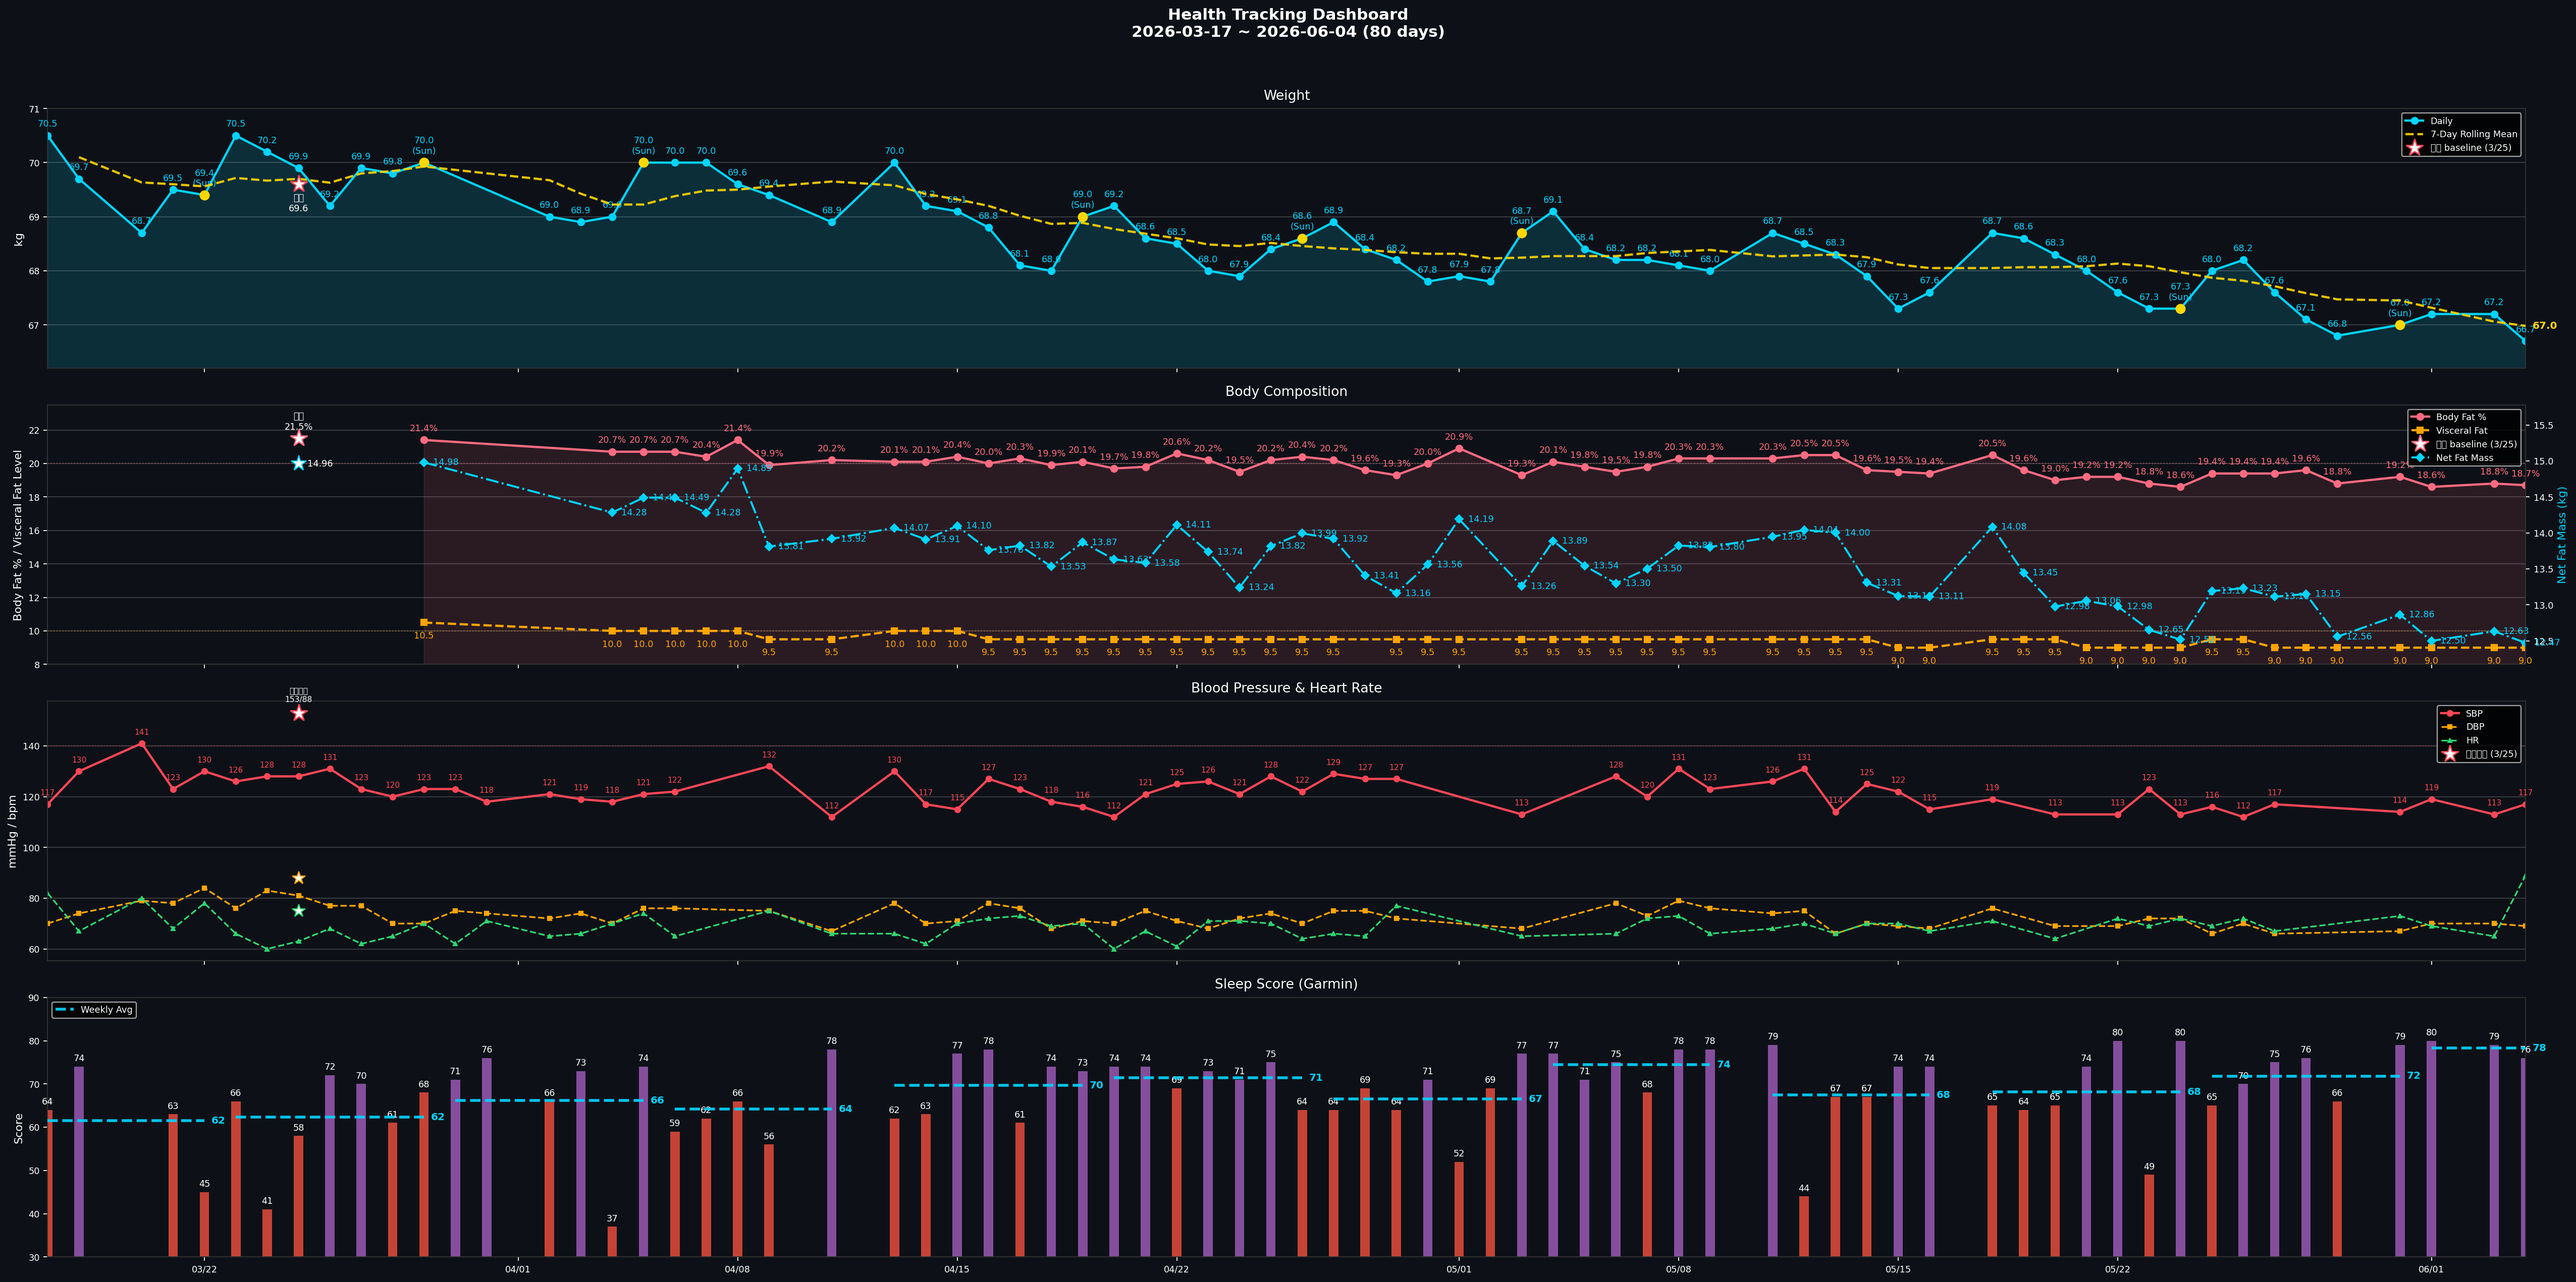
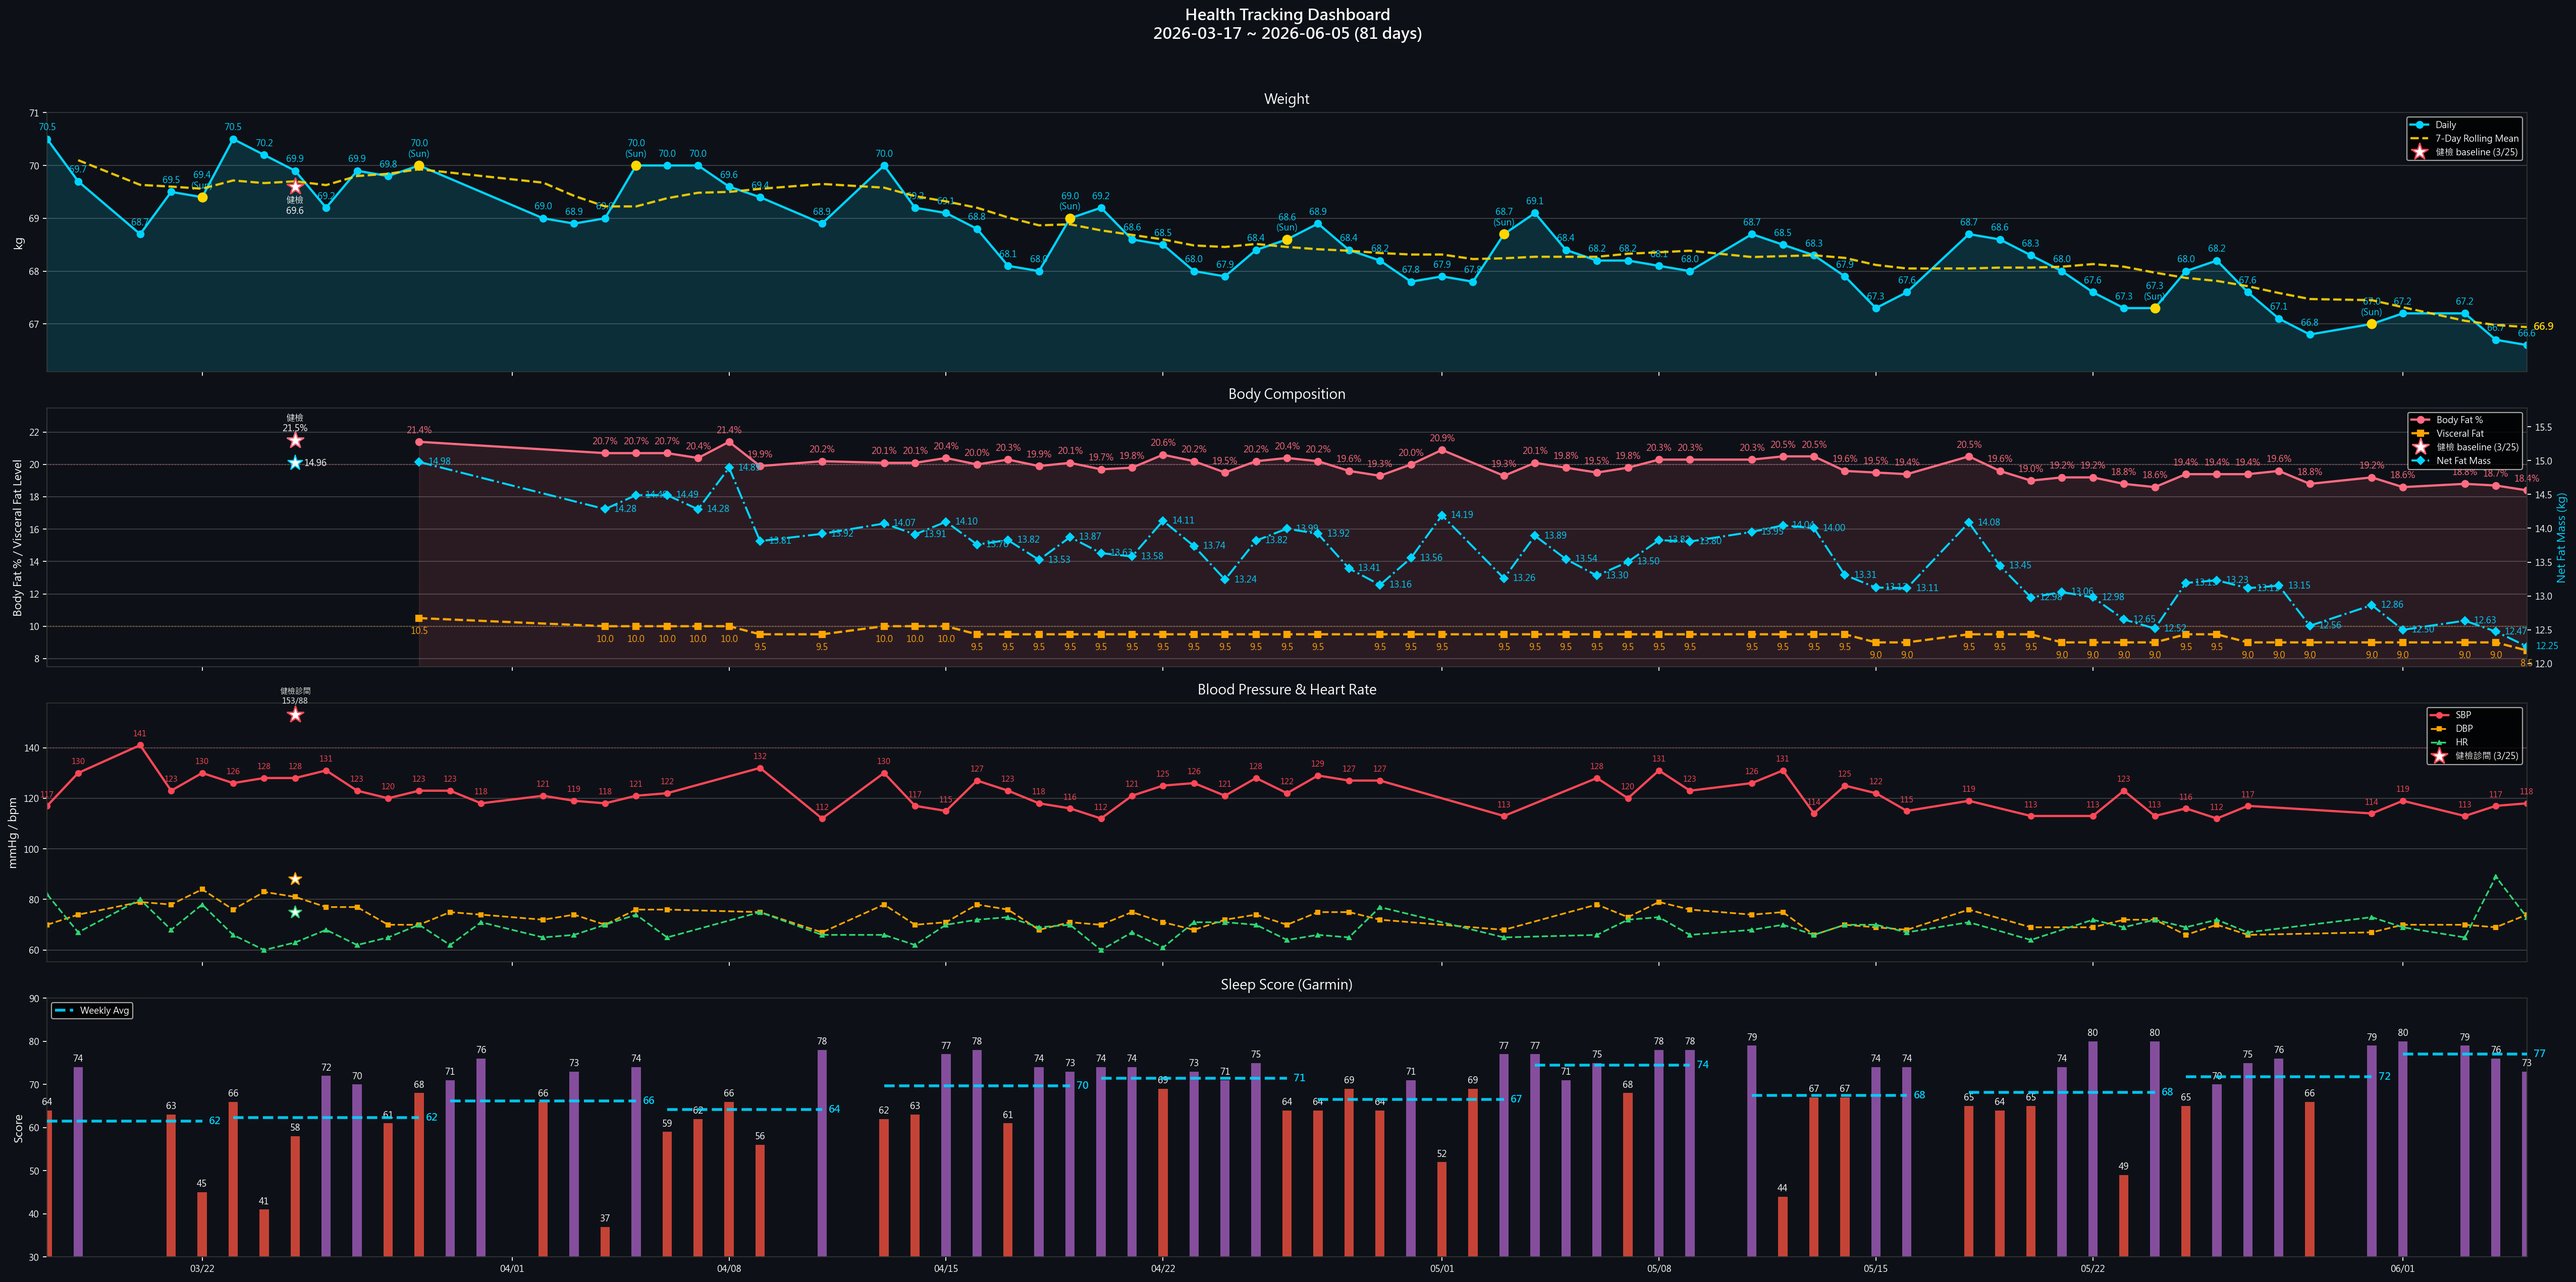
daily 2026-06-05：體重 66.6kg / BP 118/74 / Sleep 73 / SpO2 nadir 94%

diff --git a/data.js b/data.js
@@ -17,8 +17,8 @@ window.HC_DATA = {
     lede:    { en: "Sleep, BP, lipids, uric acid — one shared metabolic root. Lifestyle stacks first; medication only after lifestyle plateaus.",
                zh: "睡眠、血壓、血脂、尿酸——共享同一個代謝根源。生活方式介入優先，等到效果平台期再考慮藥物。" },
     progressLbl: { en: "Weight progress · 70 → 65 kg", zh: "體重進度 · 70 → 65 公斤" },
-    progressMeta: { en: "Day 80 · 67.3 kg · Sat official (5/23)", zh: "第 80 天 · 67.3 公斤 · 週六正式（5/23）" },
-    startDate: { en: "Start date · Mar 17, 2026 · Last sync 6/4", zh: "起始日期 · 2026 年 3 月 17 日 · 最後同步 6/4" },
+    progressMeta: { en: "Day 81 · 67.3 kg · Sat official (5/23)", zh: "第 81 天 · 67.3 公斤 · 週六正式（5/23）" },
+    startDate: { en: "Start date · Mar 17, 2026 · Last sync 6/5", zh: "起始日期 · 2026 年 3 月 17 日 · 最後同步 6/5" },
     startWeight: 70,
     targetWeight: 65,
     currentWeight: 67.3,
@@ -47,13 +47,13 @@ window.HC_DATA = {
     {
       sys: "heart", name: { en: "Blood Pressure", zh: "血壓" },
       val: "115/67", unit: "mmHg",
-      delta: { en: "W22 weekly avg (4 days) · target met (<130) · last 117/69 (6/4)", zh: "W22 週均（4 天）· 已達標 (<130) · 最新 117/69 (6/4)" },
+      delta: { en: "W22 weekly avg (4 days) · target met (<130) · last 118/74 (6/5)", zh: "W22 週均（4 天）· 已達標 (<130) · 最新 118/74 (6/5)" },
       cadence: { en: "Daily · weekly avg", zh: "每日 · 週均" },
       status: "ok",
     },
     {
       sys: "sleep", name: { en: "Sleep Score", zh: "睡眠分數" },
-      val: "76", unit: "Garmin",
+      val: "73", unit: "Garmin",
       delta: { en: "5/4 · OSA flag: T90 18.4% (severe)", zh: "5/4 · OSA 紅旗：T90 18.4%（重度）" },
       cadence: { en: "Daily · Garmin", zh: "每日 · Garmin" },
       status: "warn",
@@ -929,17 +929,17 @@ window.HC_DATA = {
   tracker: {
     // [SBP, DBP] — gaps filled with prior reading
     bp: [
-      [113,69], [113,69], [113,69], [123,72], [113,72], [116,66], [112,70], [117,66], [117,66], [117,66], [114,67], [119,70], [113,70], [117,69],
+      [113,69], [113,69], [123,72], [113,72], [116,66], [112,70], [117,66], [117,66], [117,66], [114,67], [119,70], [113,70], [117,69], [118,74],
     ],
     // daily weight (kg)
-    weight: [68.3, 68, 67.6, 67.3, 67.3, 68, 68.2, 67.6, 67.1, 66.8, 67, 67.2, 67.2, 66.7],
+    weight: [68, 67.6, 67.3, 67.3, 68, 68.2, 67.6, 67.1, 66.8, 67, 67.2, 67.2, 66.7, 66.6],
     // Garmin Sleep Score
-    sleep:  [65, 74, 80, 49, 80, 65, 70, 75, 76, 66, 79, 80, 79, 76],
+    sleep:  [74, 80, 49, 80, 65, 70, 75, 76, 66, 79, 80, 79, 76, 73],
     // Body Battery waking
-    bb:     [54, 61, 56, 34, 59, 55, 53, 64, 59, 55, 69, 71, 53, 41],
+    bb:     [61, 56, 34, 59, 55, 53, 64, 59, 55, 69, 71, 53, 41, 40],
     // SpO2 nightly nadir % (last 14 days, parallel to bp/weight/sleep/bb).
     // Earlier nights null until sync_data_js.py backfills; banner only uses trailing values.
-    spo2Nadir: [84, 83, 83, 84, null, null, 87, 93, 94, 91, 86, 89, 87, 92],
+    spo2Nadir: [83, 83, 84, null, null, 87, 93, 94, 91, 86, 89, 87, 92, 94],
   },
 
   // ===== Running — started 2026-04-26 =====

diff --git a/reviews/daily/2026-06-05.md b/reviews/daily/2026-06-05.md
@@ -1,0 +1,99 @@
+# 晨間健康紀錄 — 2026-06-05
+
+*3 分鐘。起床後立即完成。記錄，不分析。*
+
+---
+
+## 體重 / 體組成
+
+**今日：66.6 kg**
+**體脂率：18.4 %**
+**內臟脂肪等級：8.5**
+**腰圍 (WHO midpoint)： cm**（最下肋骨下緣 + 髂嵴頂端兩點水平中點環繞，通常在肚臍上方 2-5 cm；**與健檢歷史可比**；目標維持 ≤ 83、推進至 < 80 cm）
+**腰圍 (最大腹圍)： cm**（自然站立、吐氣末、不收腹，軟尺上下移動找最大讀數；通常在肚臍 0 至 -4 cm；**對內臟脂肪變化最敏感**）
+
+*每週六早晨為正式體重紀錄（排尿後、進食前；連 5 個工作日後、週末大餐前的真實低點）。其他日可選填。*
+*腰圍每日量（起床排尿後、進食前）。量兩個位置（WHO + max），方向應一致；若差距 > 3 cm 持續，考慮以 max 為主追蹤指標。*
+*WHO midpoint：科學標準，國健署 / 健檢 / metabolic syndrome 診斷用；最大腹圍：內臟脂肪 visceral fat correlation 最強。*
+
+---
+
+## 血壓（晨間）
+
+*起床後 1 小時內，上完廁所、進食前。坐下安靜 5 分鐘，連量兩次取第二次。*
+
+| 次數 | 收縮壓 | 舒張壓 | 心率 |
+|------|--------|--------|------|
+| 第一次 | | | |
+| 第二次 | 118 | 74 | 73 |
+
+---
+
+## 睡眠狀態
+
+**Garmin 偵測入睡：** 22:53
+**實際上床：**
+**實際起床：** 04:48
+**中途醒來：** 無
+**Garmin Sleep Score：** 73 / 100
+**Garmin Body Battery 起床值：** 40
+**主觀恢復感：** 3 / 5（1=極度疲憊, 5=精力充沛）
+**入睡 latency：** —
+
+### SpO2 夜間最低（7 晚趨勢）
+
+| 日期 | -6 | -5 | -4 | -3 | -2 | -1 | 今晨 |
+|------|----|----|----|----|----|----|------|
+| 日期 | 05-30 | 05-31 | 06-01 | 06-02 | 06-03 | 06-04 | 06-05 |
+| 最低 % | 88 | 85 | 89 | 86 | 87 | 92 | 94 |
+
+**今晨日均 SpO2：** 97%
+**< 88% 連續晚數：** 0（OSA 紅旗門檻：連 3 晚 < 88% → 強烈建議 PSG）
+
+**SpO2 全夜圖（含 hypnogram 條帶）：** ![spo2](spo2/spo2_desat_2026-06-05.png)
+**SpO2 趨勢圖：** ![trend](spo2/spo2_desat_trend.png)
+**SpO2 全夜 Heatmap（28+ 晚 Venu 4 cohort）：** ![heatmap](spo2/spo2_heatmap_all_nights.png)
+**SpO2 × 睡眠分期 7 晚疊圖：** ![hypno7](spo2/spo2_hypnogram_7night_2026-06-05.png)
+
+*Sleep Score < 65 或 Body Battery < 50 連續三天 → 重新檢視睡眠修復方案。*
+
+---
+
+## 昨日回顧
+
+**實際飲水量：** 2.75 L（目標 ≥ 2.5L；高尿酸最佳 2.8–3.0L；17:00 前完成 60-70%）
+**昨日活動消耗：** 294 kcal（主動 238 + BMR；步數 11,706）
+**昨日 Na / K / Na-K ratio：** — mg / — mg / —（無飲食紀錄）
+  - Na/K < 0.5 ✅ / 0.5-0.6 🟢 / 0.6-0.8 🟡 / > 0.8 🟠（INTERSALT 1988）
+
+---
+
+## 身體信號
+
+*任何張力、疼痛、疲勞、異常 — 或「清」。記位置、性質、強度。*
+
+| 部位 | 性質 | 強度 (0-10) |
+|------|------|-------------|
+| 清 | — | — |
+
+---
+
+## 今日計畫速記
+
+- [ ] 飲水目標：2.5 L（建議 2.5–3.0L；錨點 09:30 ≥1.0L / 13:30 ≥2.0L / 17:00 截止 2.5L）
+- [ ] 補充品（核心，2026-05-11 v2）：
+  - 早餐（06:00）：D3 2000 IU + **K2 MK-7 180 mcg** + **L-Citrulline 4 g** + 益生菌
+  - 午餐前 30 min：Psyllium 5 g + 350 mL 水
+  - 晚餐前 30 min：Psyllium 5 g + 350 mL 水
+  - 晚餐後：魚油 ×4（拆 18:30 ×2 + 19:30 ×2）
+  - 睡前（21:00）：鎂甘胺酸 400 mg + 酸櫻桃 1000-2000 mg + **Glycine 純粉 3 g**
+  - 茶飲：洛神花 ×2 杯（早 + 14:00 前）
+  - 食物層：南瓜籽 30 g（15:30）+ **菇蕈 100-130 g/天**（午 30-50 + 晚 50-80）
+- [ ] 運動（17:00 固定）：walk（Zone 2 散步）
+- [ ] 活動度/伸展（09:30 + 20:30 兩次錨點）
+- [ ] Wind-down（20:00 燈光降 + 螢幕濾鏡，液體截止）
+- [ ] 上床 21:30 / 熄燈 22:00（TST 目標 7h+）
+
+---
+
+*Filed: reviews/daily/2026-06-05.md*

diff --git a/reviews/weekly/2026-W23.md b/reviews/weekly/2026-W23.md
@@ -31,9 +31,9 @@
 
 |  | 一 | 二 | 三 | 四 | 五 | 六 | 日 |
 |--|----|----|----|----|----|----|-----|
-| 體重 (kg) | 67.2 | | 67.2 | 66.7 | | | |
-| 體脂率 (%) | 18.6 | | 18.8 | 18.7 | | | |
-| 內臟脂肪 | 9.0 | | 9.0 | 9.0 | | | |
+| 體重 (kg) | 67.2 | | 67.2 | 66.7 | 66.6 | | |
+| 體脂率 (%) | 18.6 | | 18.8 | 18.7 | 18.4 | | |
+| 內臟脂肪 | 9.0 | | 9.0 | 9.0 | 8.5 | | |
 | **腰圍 WHO (cm)** | 83 | | | 82 | | | |
 | **腰圍 max (cm)** | | | | | | | |
 
@@ -55,7 +55,7 @@
 | 06-02 (二) | | | |
 | 06-03 (三) | 113 | 70 | 65 |
 | 06-04 (四) | 117 | 69 | 89 |
-| 06-05 (五) | | | |
+| 06-05 (五) | 118 | 74 | 73 |
 | 06-06 (六) | | | |
 | 06-07 (日) | | | |
 
@@ -73,7 +73,7 @@
 | 06-02 (二) | | | | | | |
 | 06-03 (三) | 22:02 | 05:17 | 無 | 79 | 53 | 3 |
 | 06-04 (四) | 23:03 | 05:37 | 無 | 76 | 41 | 3 |
-| 06-05 (五) | | | | | | |
+| 06-05 (五) | 22:53 | 04:48 | 無 | 73 | 40 | 3 |
 | 06-06 (六) | | | | | | |
 | 06-07 (日) | | | | | | |
 
@@ -105,7 +105,7 @@
 
 | 信號（部位+性質） | 出現天數 | 平均強度 | 趨勢（↑↓→） | 備註 |
 |-------------------|----------|----------|-------------|------|
-| 清（無信號） | 3 | 0 | → | 06-01, 06-03, 06-04 |
+| 清（無信號） | 4 | 0 | → | 06-01, 06-03, 06-04, 06-05 |
 
 **反覆出現（≥ 3 天）：** 無
 
@@ -131,6 +131,7 @@
 | 06-01 (一) | walk（Zone 2 走路） |
 | 06-03 (三) | walk（Zone 2 走路） |
 | 06-04 (四) | walk（Zone 2 走路） |
+| 06-05 (五) | walk（Zone 2 走路） |
 
 ---
 

diff --git a/reports/daily-garmin/2026-06-04.md b/reports/daily-garmin/2026-06-04.md
@@ -6,15 +6,17 @@
 - 深眠：75 分｜REM：57 分
 - Sleep Score：76
 - Body Battery 起床值：41
+- 估算上床：23:02｜入睡 latency：2 分（範圍 2–34 分）（wide_range）
+  - 備註：HR/步數估算差 32 分，無法區分躺床清醒
 
 ## 靜息心率
 - RHR：60.0 bpm
 
 ## 壓力
-- 日均：24
+- 日均：32
 
 ## 步數
-- 總計：322
+- 總計：11,706
 
 ## SpO2
 - 日均：97.0%
@@ -24,10 +26,13 @@
 | 時段 | 類型 | 距離 | 時長 | 平均 HR | 最大 HR | 主動 kcal | 含 BMR |
 |------|------|------|------|---------|---------|-----------|--------|
 | 08:59 | cycling | 1.17 km | 19.9 min | 115 | 154 | 107 | 133 |
+| 12:41 | walking | 1.59 km | 17.6 min | 121 | 137 | 92 | 115 |
+| 17:14 | cycling | 1.14 km | 5.3 min | 128 | 152 | 39 | 46 |
+| **小計** | 3 段 | **3.90 km** | **42.8 min** | — | — | **238** | **294** |
 
 ## 飲水
-- 實際：0.00 L
-- 目標：2.27 L
-- 運動流汗耗水：0.27 L
+- 實際：2.75 L
+- 目標：2.62 L
+- 運動流汗耗水：0.62 L
 
 _Source: data/garmin/2026-06-04.json (gitignored)_

diff --git a/reports/daily-garmin/2026-06-05.md b/reports/daily-garmin/2026-06-05.md
@@ -1,0 +1,33 @@
+# Garmin 每日摘要 — 2026-06-05
+
+## 睡眠
+- 就寢：22:53｜起床：04:48
+- 總時長：5h 53m
+- 深眠：91 分｜REM：38 分
+- Sleep Score：73
+- Body Battery 起床值：40
+
+## 靜息心率
+- RHR：61.0 bpm
+
+## 壓力
+- 日均：37
+
+## 步數
+- 總計：3,528
+
+## SpO2
+- 日均：97.0%
+- 最低：94%
+
+## 活動
+| 時段 | 類型 | 距離 | 時長 | 平均 HR | 最大 HR | 主動 kcal | 含 BMR |
+|------|------|------|------|---------|---------|-----------|--------|
+| 09:26 | cycling | 1.18 km | 8.1 min | 133 | 154 | 64 | 75 |
+
+## 飲水
+- 實際：0.00 L
+- 目標：2.12 L
+- 運動流汗耗水：0.12 L
+
+_Source: data/garmin/2026-06-05.json (gitignored)_
